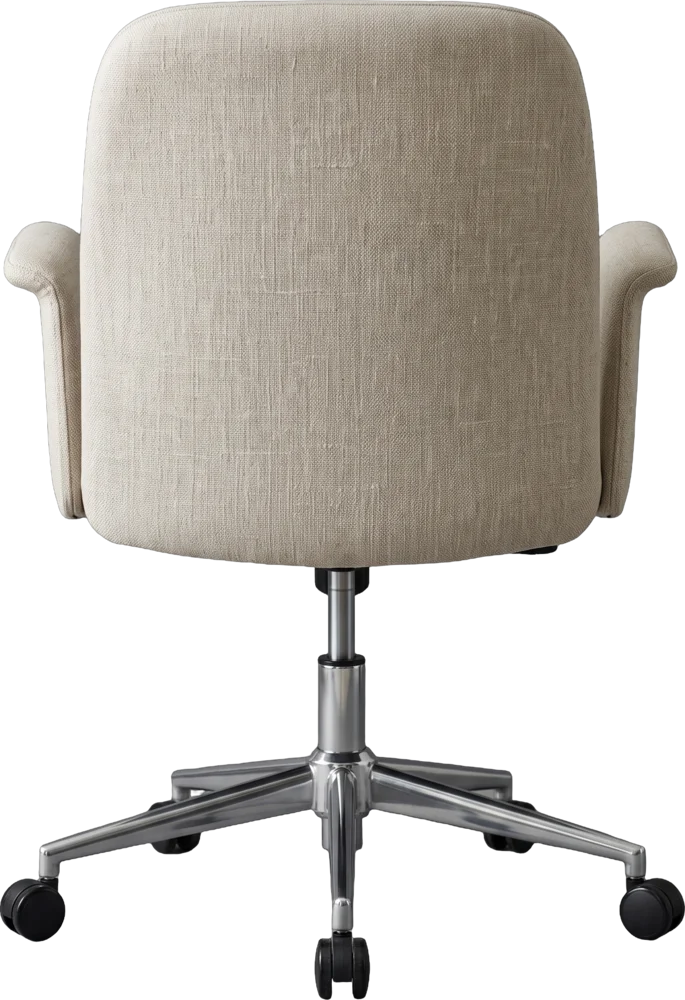
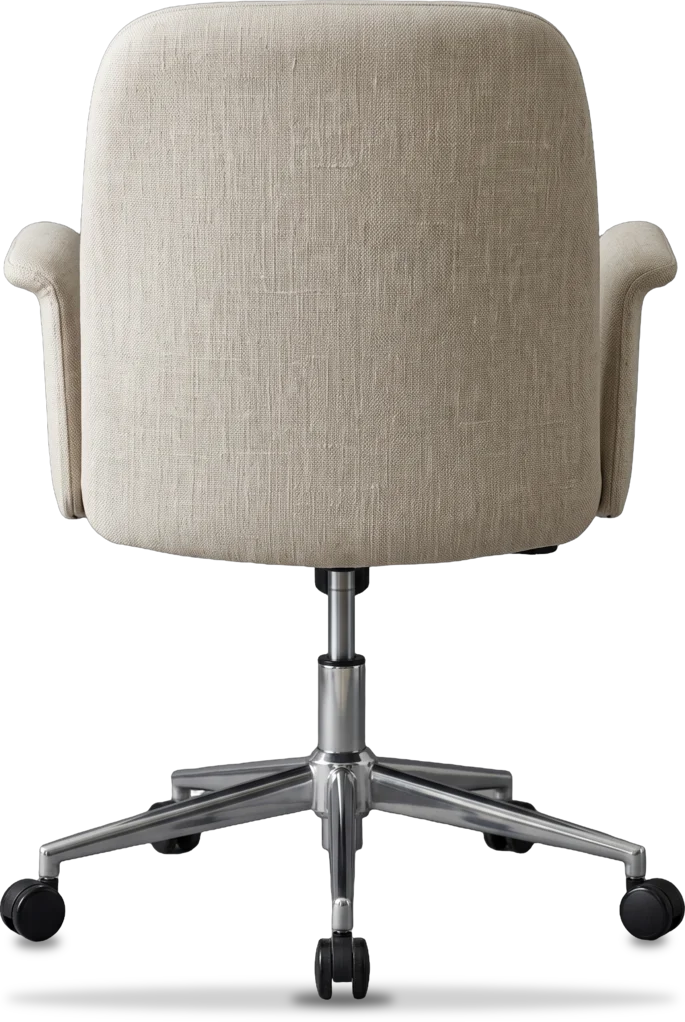
feat: contact shadows for desks and chairs; image pipeline scripts
- Bake soft contact shadows under both desks' feet and the chairs' front
  castors so the workspace furniture stands on the floor.
- Add scripts/cutout.sh (rembg background removal, tight crop, edge
  cleanup) and scripts/add_shadow.py (contact shadows from the alpha mask).
- README: replace the placeholder-SVG section with how scenes and product
  photos are generated, processed, placed and checked.

diff --git a/scripts/add_shadow.py b/scripts/add_shadow.py
@@ -1,0 +1,60 @@
+#!/usr/bin/env python3
+"""Bake soft contact shadows under a floor-standing item's feet, castors or tyres.
+
+    python3 scripts/add_shadow.py <cutout.png> <out.webp> <size> <tolerance> [quality]
+
+  size       ImageMagick resize geometry, e.g. 1300x (width) or x1100 (height)
+  tolerance  how far above the lowest point still counts as touching the floor,
+             as a fraction of the image height: ~0.012 for desks (both feet level),
+             ~0.06 for chairs (front castors sit at slightly different depths)
+
+The contact points are found from the transparency mask: columns whose lowest
+opaque pixel is within `tolerance` of the bottom, grouped into feet. Each gets a
+dark soft shadow at its own depth, plus a faint one under the whole footprint.
+Room for the shadow is added below the image, so top-anchored layers don't move;
+for bottom-anchored layers the extra rows sit on the anchor line.
+Needs ImageMagick (`magick`).
+"""
+import os
+import subprocess
+import sys
+
+
+def main() -> None:
+    src, out, size, tol = sys.argv[1], sys.argv[2], sys.argv[3], float(sys.argv[4])
+    quality = sys.argv[5] if len(sys.argv) > 5 else "85"
+    tmp, raw = out + ".tmp.png", out + ".alpha.raw"
+    subprocess.check_call(["magick", src, "-resize", size, tmp])
+    w, h = map(int, subprocess.check_output(["magick", tmp, "-format", "%w %h", "info:"]).split())
+    subprocess.check_call(["magick", tmp, "-alpha", "extract", "-threshold", "50%", "-depth", "8", f"gray:{raw}"])
+    alpha = open(raw, "rb").read()
+    bottom = [max((y for y in range(h) if alpha[y * w + x] > 127), default=-1) for x in range(w)]
+
+    cols = [x for x in range(w) if bottom[x] >= h - 1 - tol * h]
+    feet: list[list[int]] = []
+    for x in cols:
+        if feet and x - feet[-1][-1] <= max(3, w // 150):
+            feet[-1].append(x)
+        else:
+            feet.append([x])
+
+    pad, ry = max(10, h // 45), max(3, h // 150)
+    draws = [f"fill rgba(0,0,0,0.18) ellipse {(cols[0] + cols[-1]) // 2},{h - 2} {(cols[-1] - cols[0]) // 2 + w // 30},{ry * 2} 0,360"]
+    for f in feet:
+        rx = max(6, int((f[-1] - f[0]) * 0.8) + w // 80)
+        draws.append(f"fill rgba(0,0,0,0.55) ellipse {(f[0] + f[-1]) // 2},{max(bottom[x] for x in f)} {rx},{ry} 0,360")
+
+    cmd = ["magick", tmp, "-gravity", "north", "-background", "none", "-extent", f"{w}x{h + pad}",
+           "(", "-size", f"{w}x{h + pad}", "xc:none"]
+    for d in draws:
+        cmd += ["-draw", d]
+    cmd += ["-blur", f"0x{max(3, h // 180)}", ")", "-compose", "DstOver", "-composite",
+            "-quality", quality, "-define", "webp:alpha-quality=100", out]
+    subprocess.check_call(cmd)
+    os.remove(tmp)
+    os.remove(raw)
+    print(f"{os.path.basename(out)}: {w}x{h + pad}, feet at x {[(f[0], f[-1]) for f in feet]}")
+
+
+if __name__ == "__main__":
+    main()

diff --git a/README.md b/README.md
@@ -50,7 +50,7 @@ You don't need any environment variables or paid add-ons. Images are served as p
 
 ```
 public/scene/*.webp          zone scenes: room (workspace), lounge, garage (photos, 1600×1200 WebP)
-public/items/*.svg           one image per catalog item
+public/items/*.webp          one image per catalog item (+ *-front.webp chair thumbnails)
 src/lib/catalog.ts           catalog: items, prices, images, preview layer boxes
 src/lib/configurator.ts      selection reducer, totals, storage parsing (pure)
 src/lib/presets.ts           ready-made setups offered when the workspace is empty
@@ -59,31 +59,36 @@ src/lib/checkout.ts          checkout validation (pure)
 src/components/              provider (state + localStorage), full-screen configurator + drawer, preview, presets, picker, product details sheet, summary bar
 src/app/page.tsx             configurator page
 src/app/checkout/page.tsx    checkout page
+scripts/                     image pipeline: cutout.sh (background removal), add_shadow.py (contact shadows)
 ```
 
-## Replacing the images
+## Images: scenes and products
 
-Each item's image path is the `image` field of its entry in `src/lib/catalog.ts`. To use your own artwork, either:
+All images are photos generated with Google Gemini. The prompts are in `_bmad-output/scene-image-prompts.md`; each asks for a straight-on, level camera (70 mm look) and soft daylight so products line up with their scene. Full-size originals are kept locally in `design/scene-originals/` and `design/item-originals/` (git-ignored); only compressed WebP files are served.
 
-- overwrite the file at the same path in `public/items/` (for example `public/items/desk-oak-standing.svg`), or
-- add a new file under `public/` and change that item's `image` to point to it (PNG, JPG, WebP and SVG all work).
+**Scenes** (`public/scene/{room,lounge,garage}.webp`): 1600×1200 (4:3), empty except for fixed decor (the lounge's sofa and plant, the garage's door and shelf). Convert a new one with:
 
-**Keep each image's aspect ratio the same as the placeholder it replaces.** Every item sits in a fixed layer box on the 4:3 scene. The box sets `left`, `top` and `width` as percentages, and the height follows from the image's own proportions. The placeholder SVGs' `viewBox` sizes give the intended ratios, in scene units where the scene is 800×600:
+```bash
+magick original.jpeg -resize 1600x1200^ -gravity center -extent 1600x1200 -strip -quality 80 public/scene/room.webp
+```
 
-| Image | Size (w×h) |
-|---|---|
-| Desks | 416×200 |
-| Chairs | 160×230 |
-| Monitors | 100×92 |
-| Plants | 40×72 |
-| Coffee Station | 36×48 |
-| Sport Gear | 104×90 |
-| Surfboard | 80×300 |
-| Motorbike | 200×130 |
-| Garage Space | 208×260 |
-| Scenes (`public/scene/*.webp`) | 1600×1200 (4:3); originals in `design/scene-originals/` |
+**Products** (`public/items/*.webp`), cut out on a plain contrasting background:
 
-Use transparent backgrounds so the layers show through one another. If an image has a different shape, adjust its `layer` box (`left`, `top` or `bottom`, `width`, `z`) in `catalog.ts`. `z` sets the stacking order, and higher values draw in front. Monitors only use their `width`: `monitorBoxes()` in `src/lib/scene.ts` stands them on the desk by count (one centered, two side by side, three as a bank).
+```bash
+scripts/cutout.sh design/item-originals/desk-oak-standing.jpeg /tmp/desk.png          # remove background, crop tight, clean edges
+python3 scripts/add_shadow.py /tmp/desk.png public/items/desk-oak-standing.webp 1300x 0.012   # floor items: resize + contact shadows
+magick /tmp/monitor.png -resize 700x -quality 85 -define webp:alpha-quality=100 public/items/monitor-24-fhd.webp  # items on the desk: resize only
+```
+
+`cutout.sh` uses [rembg](https://github.com/danielgatis/rembg) through `uv` (the model downloads on first run) and ImageMagick. It works best when the product contrasts with its background; for black-on-black edges (a lamp base on a dark ledge) patch the mask by hand. `add_shadow.py` finds the feet, castors or tyres from the transparency mask and bakes a soft shadow under each; use a tolerance of about `0.012` for desks and `0.06` for chairs.
+
+**Placing a product** is its `layer` box in `src/lib/catalog.ts`, in percent of the scene: `left`, `width`, and either `top` (desks, chairs) or `bottom` (things that stand on a surface: monitors, desk plant and lamp on the desk top at `MONITOR_BASE`, lounge and garage items on the floor). The height follows from the image's proportions, so a new image can keep its box as long as it has a similar shape. `z` sets the stacking order (higher draws in front; the desk lamp sits behind the monitors). Size products from something of known size in the scene (a desk, the sofa, a door) and check with a composite before wiring them in:
+
+```bash
+magick public/scene/garage.webp \( public/items/motorbike.webp -resize 832x \) -geometry +400+580 -composite /tmp/check.png
+```
+
+Monitors only use their `width`: `monitorBoxes()` in `src/lib/scene.ts` stands them on the desk by count (one centered, two side by side, three as a bank that stays on the desk). Chairs show their back in the scene and use `thumbnail` for a front view on cards and in the details gallery.
 
 ## Product details, specs and photos
 
